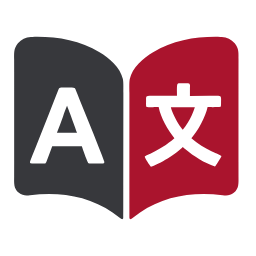
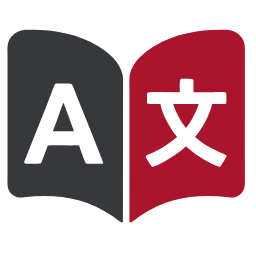
feat(action): grey toolbar button off arXiv, the maintainer's new marks
The maintainer redrew the mark and added a grey one: the extension works only on
an arXiv abstract, PDF or full text, so its toolbar button is grey everywhere
else and lights on those pages.

- public/icon/mark.svg is the new mark; mark-off.svg the grey one, rendered to
  mark-off-{16,32,48}.png and now the manifest's action.default_icon.
- tile.svg is rebuilt from the new book, at the old tile's scale and place; the
  store icon, the manifest icons and the README's mark-256 are rendered from the
  vectors (pnpm icons now renders the grey mark and the README image too).
- docs/brand/social-preview.png: the old mark painted over with the new one at
  the same size and place (a one-off; the card has no source file).
- The floating button's disc keeps its own mark, as asked.
- Each of the three content scripts sends axt:page-usable; the background sets
  the colour mark for that tab alone. Chrome drops a per-tab value when the tab
  goes to another document and keeps it across a hash change, so nothing turns
  it grey; a page restored from the back/forward cache says so again on pageshow.
  Measured by tests/e2e/probes/action-icon.mjs on Chromium 153 (the clearing
  read from the title: Chrome has no getter for an icon).

UI.md §5.1 records the decision and the measurement.

diff --git a/tests/background/handlers.test.ts b/tests/background/handlers.test.ts
@@ -24,6 +24,7 @@ function harness(over: Partial<HandlerDeps> = {}) {
     patchFloatingEntry: vi.fn(),
     zoomOf: vi.fn(async () => 1),
     openSettings: vi.fn(async () => undefined),
+    lightAction: vi.fn(async () => undefined),
     environment: vi.fn(),
     ...over,
   } as unknown as HandlerDeps
@@ -127,6 +128,19 @@ describe('the background\'s handlers', () => {
     await expect(send({ type: 'axt:open-settings' })).resolves.toEqual({ opened: false })
   })
 
+  it('axt:page-usable lights the toolbar button for the sender\'s tab, answers nothing, and survives a tab gone meanwhile', async () => {
+    const lightAction = vi.fn(async () => undefined)
+    const { send } = harness({ lightAction })
+    expect(send({ type: 'axt:page-usable' }, { tabId: 7 })).toBeUndefined()
+    expect(lightAction).toHaveBeenCalledWith(7)
+    // From an extension page there is no tab, and no button of its own to light
+    expect(send({ type: 'axt:page-usable' }, { tabId: undefined })).toBeUndefined()
+    expect(lightAction).toHaveBeenCalledTimes(1)
+    lightAction.mockRejectedValueOnce(new Error('No tab with id: 7'))
+    expect(send({ type: 'axt:page-usable' }, { tabId: 7 })).toBeUndefined()
+    await new Promise(resolve => setTimeout(resolve, 0))
+  })
+
   it('axt:diag records a page\'s line and answers nothing; a line of the wrong shape, or claiming to be the background\'s, is dropped', () => {
     const { send, lines } = harness()
     expect(send({ type: 'axt:diag', src: 'content', line: '[axt] a line' })).toBeUndefined()
@@ -175,7 +189,7 @@ describe('the background\'s handlers', () => {
     const { deps } = harness()
     expect(Object.keys(createHandlers(deps)).sort()).toEqual([
       'axt:cache-clear', 'axt:cache-stats', 'axt:cancel-scope', 'axt:diag', 'axt:diag-export', 'axt:engine-ready',
-      'axt:entry-settings', 'axt:ocr', 'axt:open-settings',
+      'axt:entry-settings', 'axt:ocr', 'axt:open-settings', 'axt:page-usable',
       'axt:provider-status', 'axt:set-floating-entry', 'axt:toggle', 'axt:translate',
     ])
   })

diff --git a/tests/shared/action-icon.test.ts b/tests/shared/action-icon.test.ts
@@ -1,0 +1,48 @@
+import { beforeEach, describe, expect, it, vi } from 'vitest'
+
+// The page's half of the toolbar button's two states (shared/action-icon.ts): it says it is a page the extension
+// works on, once on load and again when the back/forward cache brings it back, and an extension that has gone away
+// under it takes nothing down
+
+const wire = vi.hoisted(() => ({ sent: [] as unknown[], fail: null as 'throw' | 'reject' | null }))
+vi.mock('@/shared/messages', () => ({
+  sendMessage: (message: unknown) => {
+    if (wire.fail === 'throw') throw new Error('Extension context invalidated.')
+    wire.sent.push(message)
+    return wire.fail === 'reject' ? Promise.reject(new Error('Could not establish connection')) : Promise.resolve(undefined)
+  },
+}))
+
+const { announceUsablePage } = await import('@/shared/action-icon')
+
+const pageshow = (persisted: boolean) => {
+  const event = new Event('pageshow')
+  Object.defineProperty(event, 'persisted', { value: persisted })
+  return event
+}
+
+describe('announceUsablePage', () => {
+  beforeEach(() => {
+    wire.sent = []
+    wire.fail = null
+  })
+
+  it('says so on load, and again only when the page comes back from the back/forward cache', () => {
+    const win = new EventTarget() as unknown as Window
+    announceUsablePage(win)
+    expect(wire.sent).toEqual([{ type: 'axt:page-usable' }])
+    win.dispatchEvent(pageshow(false))
+    expect(wire.sent).toHaveLength(1)
+    win.dispatchEvent(pageshow(true))
+    expect(wire.sent).toEqual([{ type: 'axt:page-usable' }, { type: 'axt:page-usable' }])
+  })
+
+  it('takes nothing down when the extension is gone, whether the send throws or rejects', async () => {
+    const win = new EventTarget() as unknown as Window
+    wire.fail = 'throw'
+    expect(() => announceUsablePage(win)).not.toThrow()
+    wire.fail = 'reject'
+    expect(() => win.dispatchEvent(pageshow(true))).not.toThrow()
+    await new Promise(resolve => setTimeout(resolve, 0))
+  })
+})

diff --git a/src/entrypoints/background/handlers.ts b/src/entrypoints/background/handlers.ts
@@ -33,6 +33,8 @@ export interface HandlerDeps {
   /** The tab's zoom, the browser's to know; rejects for a tab that is gone */
   zoomOf(tabId: number): Promise<number>
   openSettings(): Promise<void>
+  /** Light the toolbar button for one tab; rejects for a tab that is gone */
+  lightAction(tabId: number): Promise<void>
   /** The environment a reader cannot be expected to report: the build, the browser, the platform */
   environment(): Promise<Omit<DiagnosticsExport, 'entries' | 'exportedAt'>>
 }
@@ -98,6 +100,13 @@ export function createHandlers(deps: HandlerDeps): MessageHandlers {
       deps.getFloatingEntry(),
       sender.tabId === undefined ? 1 : deps.zoomOf(sender.tabId).catch(() => 1),
     ]).then(([config, floating, zoom]) => ({ uiLanguage: config.uiLanguage, openIn: config.reading.openIn, zoom, floating })),
+
+    // The toolbar button lights for the tab the page is in (UI.md §5.1). Nothing is answered: the page does not wait
+    // on it, and a tab closed meanwhile has no button to light
+    'axt:page-usable': (_message, sender) => {
+      if (sender.tabId !== undefined) void deps.lightAction(sender.tabId).catch(() => undefined)
+      return undefined
+    },
 
     // A content script cannot open the settings page itself; `openOptionsPage` brings an open one to the front
     'axt:open-settings': () => deps.openSettings().then(() => ({ opened: true })).catch(() => ({ opened: false })),

diff --git a/wxt.config.ts b/wxt.config.ts
@@ -44,9 +44,11 @@ export default defineConfig({
     // Two marks, two surfaces (scripts/icons.mjs): `icons` is filled by WXT from public/icon/<size>.png,
     // the tile, for the card the extensions page and the store put an icon on. Everywhere the mark
     // stands on its own — this toolbar button, the page tabs, our own brand rows — it is the bare
-    // book, whose outline keeps it legible on a light and a dark surface alike
+    // book, whose outline keeps it legible on a light and a dark surface alike. The toolbar button
+    // starts grey: it has nothing to do on most pages, and a page it works on lights its own tab
+    // (shared/action-icon.ts, UI.md §5.1)
     action: {
-      default_icon: { 16: 'icon/mark-16.png', 32: 'icon/mark-32.png', 48: 'icon/mark-48.png' },
+      default_icon: { 16: 'icon/mark-off-16.png', 32: 'icon/mark-off-32.png', 48: 'icon/mark-off-48.png' },
     },
     // The image overlay uses CSS anchor positioning, and `anchor-scope` needs Chrome 131 (§15.2). The document always said so, but it never reached
     // the manifest: a Chrome below that version installs the extension all the same and gets a misplaced overlay, and its scroll containers do not enter

diff --git a/src/shared/action-icon.ts b/src/shared/action-icon.ts
@@ -1,0 +1,18 @@
+// The toolbar button's two states (UI.md §5.1): grey by default, lit on a page the extension works on. The pages say
+// so themselves — each content script runs only where there is something to do — and the background lights the
+// button for their tab alone. Nothing has to turn it off: Chrome drops a value set for one tab when the tab goes to
+// another document. That covers a page brought back from the back/forward cache as well, whose script does not run
+// again: it says so once more on `pageshow`.
+import { sendMessage } from '@/shared/messages'
+
+export function announceUsablePage(win: Window = window): void {
+  const say = () => {
+    // After an update or a reload of the extension, the old page's script has no extension to talk to; it throws at
+    // once rather than rejecting. That page cannot be used either until it is reloaded, and grey is the truth
+    try {
+      void sendMessage({ type: 'axt:page-usable' }).catch(() => undefined)
+    } catch {}
+  }
+  say()
+  win.addEventListener('pageshow', event => { if (event.persisted) say() })
+}

diff --git a/src/entrypoints/pdf.content.ts b/src/entrypoints/pdf.content.ts
@@ -6,6 +6,7 @@
 // without). A paper arXiv says has no HTML version keeps the button, its main button disabled and saying why — the
 // same answer the popup gives there (UI.md S-P-33).
 import { htmlUrlOf, paperIdFromPdfPath, translatedHtmlUrlOf } from '@/core/pdf/entry'
+import { announceUsablePage } from '@/shared/action-icon'
 import { answerEntryMessages } from '@/shared/entry-page'
 import { installFloatingButton } from '@/shared/floating'
 
@@ -15,6 +16,8 @@ export default defineContentScript({
   async main() {
     const id = paperIdFromPdfPath(location.pathname)
     if (id === null) return
+    // Lit before the check below: the popup works here whether or not the paper has an HTML version, and says which
+    announceUsablePage()
 
     // Only the head: the HTML full text is hundreds of kilobytes, and all that is asked here is whether it exists.
     // **Only arXiv saying so means there is none** (404, or 410): a request that failed, a 429 or a 5xx say nothing

diff --git a/src/entrypoints/content/index.ts b/src/entrypoints/content/index.ts
@@ -7,6 +7,7 @@ import { paperIdFromUrl } from '@/core/pipeline'
 import { FIGURE_SELECTORS } from '@/core/rules/latexml'
 import { createPageSession } from '@/core/session'
 import { installFigureViewer } from '@/core/viewer'
+import { announceUsablePage } from '@/shared/action-icon'
 import { installFloatingButton, type InstalledFloatingButton } from '@/shared/floating'
 import { onMessages, sendMessage } from '@/shared/messages'
 import { createMessageTransport } from '@/shared/transport'
@@ -23,6 +24,7 @@ export default defineContentScript({
   matches: ['https://arxiv.org/html/*'],
   runAt: 'document_idle',
   main() {
+    announceUsablePage()
     const t0 = performance.now()
     const blocks = extract(document)
     // The title + abstract are extracted once here: the DOM holds no translation yet, and extracting after a translation would count the previous round's translation into the abstract

diff --git a/src/entrypoints/abstract.content.ts b/src/entrypoints/abstract.content.ts
@@ -5,6 +5,7 @@
 import { LOCALES, pickLocale } from '@/locales'
 import { htmlHrefOn, injectBilingualLink, relabelBilingualLink, retargetBilingualLink } from '@/core/abstract/link'
 import { paperIdFrom } from '@/core/paper-id'
+import { announceUsablePage } from '@/shared/action-icon'
 import { answerEntryMessages } from '@/shared/entry-page'
 import { watchEntrySettings } from '@/shared/entry-settings'
 import { installFloatingButton } from '@/shared/floating'
@@ -13,6 +14,7 @@ export default defineContentScript({
   matches: ['https://arxiv.org/abs/*'],
   runAt: 'document_idle',
   async main() {
+    announceUsablePage()
     // The interface language and where the translation opens come from the background, validated
     // (shared/entry-settings.ts): this script loads no schema and reads no raw stored value
     const ui = browser.i18n?.getUILanguage?.()

diff --git a/src/shared/messages.ts b/src/shared/messages.ts
@@ -92,6 +92,11 @@ export interface AxtMessages {
   'axt:entry-settings': { request: Record<never, never>; response: EntrySettings }
   /** background → content: the reader changed this tab's zoom (`tabs.onZoomChange`) */
   'axt:zoom-changed': { request: { zoom: number }; response: undefined }
+  /**
+   * content → background: this tab holds a page the extension works on — the abstract, the PDF or the full text.
+   * The toolbar button is grey everywhere else and lights for this tab (UI.md §5.1)
+   */
+  'axt:page-usable': { request: Record<never, never>; response: undefined }
   /** content → background: open the settings page. A content script cannot call `openOptionsPage` itself */
   'axt:open-settings': { request: Record<never, never>; response: { opened: boolean } }
   /**

diff --git a/src/entrypoints/background/index.ts b/src/entrypoints/background/index.ts
@@ -214,6 +214,9 @@ export default defineBackground(() => {
     patchFloatingEntry,
     zoomOf: tabId => browser.tabs.getZoom(tabId),
     openSettings: () => browser.runtime.openOptionsPage(),
+    // A value set for one tab is the browser's to clear: it drops it when the tab navigates to another document, and
+    // the button falls back to the grey `default_icon` of the manifest
+    lightAction: tabId => browser.action.setIcon({ tabId, path: { 16: '/icon/mark-16.png', 32: '/icon/mark-32.png', 48: '/icon/mark-48.png' } }),
     environment: async () => ({
       extension: { version: browser.runtime.getManifest().version, buildRef: BUILD_REF },
       browser: navigator.userAgent,

diff --git a/docs/UI.md b/docs/UI.md
@@ -270,10 +270,22 @@ An open book: the left page dark grey with an `A`, the right page arXiv red with
 | Vector | Shape | Where it goes |
 |---|---|---|
 | `public/icon/mark.svg` | the bare book with a white outline, no tile: the identity itself | `public/icon/mark-{16,32,48}.png`, declared as `action.default_icon` in `wxt.config.ts` — the toolbar button, the three pages' `<link rel="icon">`, and the brand row of the popup and the settings sidebar through `src/ui/BrandMark.tsx`. Everywhere the mark stands on its own, in other words. A white tile in those places reads as a sticker; the outline is what keeps it legible on a light and a dark surface alike |
+| `public/icon/mark-off.svg` | the same book in grey, glyphs and outline dark | `public/icon/mark-off-{16,32,48}.png`, the manifest's `action.default_icon`: the toolbar button wherever the extension has nothing to do (below) |
 | `public/icon/tile.svg` | the same book on a white rounded tile, the app-icon shape | `public/icon/{16,32,48,96,128}.png` (WXT fills the manifest's `icons` from those names) for the extensions page, the install dialog and the store — the places that frame an icon in a card of their own |
 | `docs/brand/store-icon-128.png` | 96 of tile artwork inset in a 128 canvas | uploaded by hand to the store listing, which wants the inset rather than a full-bleed icon. Never shipped inside the extension |
 
-`pnpm icons` renders every PNG from the two vectors; the PNGs are committed, so an ordinary build
+**The toolbar button is grey until a page lights it** [decided, the maintainer 2026-09-21]. The extension works on
+three kinds of page — the abstract, the PDF and the full text, the three its content scripts run on — and nowhere
+else, so its button starts grey and each of those pages lights its own tab (`src/shared/action-icon.ts`, the message
+`axt:page-usable`; the background sets the colour mark for that tab alone). Nothing turns it grey again: Chrome drops a
+value set for one tab when the tab goes to another document, and keeps it across a hash change. A page brought back
+from the back/forward cache runs no script, so it says so again on `pageshow`. A tab opened before the extension was
+installed or updated stays grey until it is reloaded, which is the truth: its page has no script of ours either. All
+of it measured in a real browser by `tests/e2e/probes/action-icon.mjs` (2026-09-21, Chromium 153) — the clearing read
+from the button's title, since Chrome gives no getter for an icon. The popup still opens on a grey button and says what
+it can do there.
+
+`pnpm icons` renders every PNG from the vectors, and the README's `docs/images/mark-256.png` beside them; the PNGs are committed, so an ordinary build
 needs neither the script nor a browser.
 
 The mark is decorative wherever it appears: the name sits beside it as text, so it carries `alt=""`.

diff --git a/CHANGELOG.md b/CHANGELOG.md
@@ -4,6 +4,7 @@ Reader-facing changes, newest first. The design is `docs/DESIGN.md`.
 
 ## 0.4.1 — unreleased
 
+- The toolbar button shows where the extension works: in colour on an arXiv abstract, PDF or full text, grey everywhere else. The mark itself is redrawn, a touch cleaner at small sizes.
 - Opening a paper's PDF on arXiv now offers its bilingual version: straight to the HTML full text, already translating. Where arXiv has no HTML version of a paper, the button says so.
 - The extension's popup now works on a paper's abstract and PDF pages as well: the same settings, and a translate button that opens the paper's HTML version and translates it there. Where arXiv has no HTML version of a paper, the button says so instead of being a dead end.
 - A floating button on every arXiv page — abstract, PDF and full text — docked to the edge of the window. Click it to translate the page you are on (a green tick shows a translated page; click again for the original), or, from an abstract or a PDF, to open the paper's bilingual version. Point at it for two more buttons: the control panel, which is the extension's popup, and the settings. Drag it to either edge and it stays there, lock it in place, or hide it for now or for good; the settings page, under Reading, brings it back.
